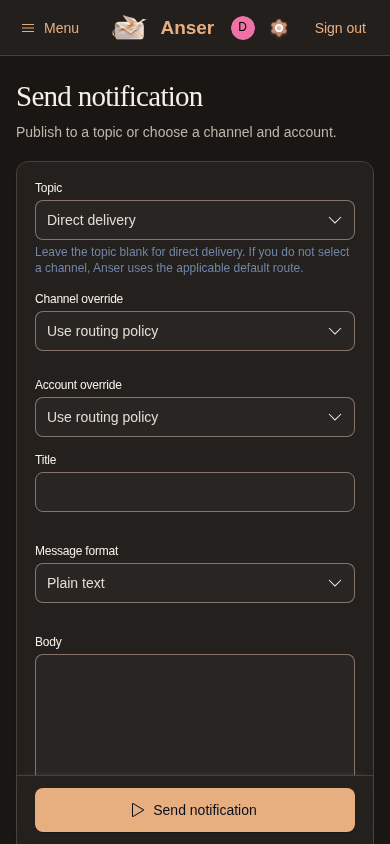
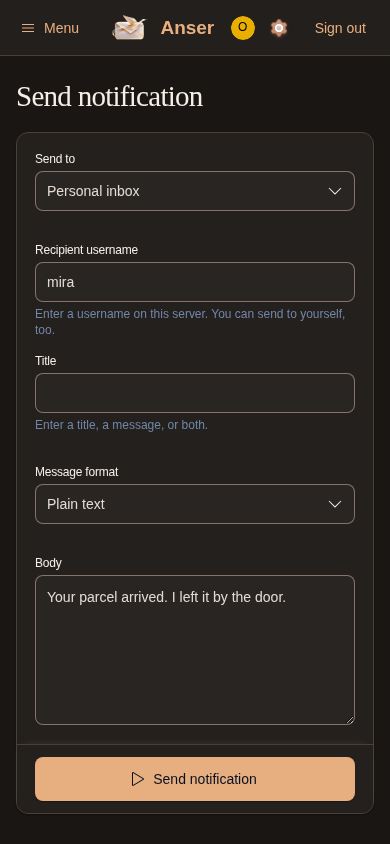
Release Anser 0.5.0 with bilingual delivery walkthroughs

diff --git a/README.en.md b/README.en.md
@@ -38,7 +38,11 @@ Set `ANSER_BOOTSTRAP_USERNAME` and `ANSER_BOOTSTRAP_PASSWORD` before running the
 
 ## Use the client
 
-Enter the server address and your credentials on the connection screen. The console can generate a one-time pairing code with a two-minute lifetime. Scan it with your phone's camera and confirm sign-in in Anser. Each subscriber to a topic receives their own notification. Signed-in users can also send a notification directly to another username.
+Enter your server address and sign in on the client’s connection screen. You can also generate a single-use code under **Pair a client** in the console. Scan it with your phone’s camera and confirm the server address in Anser within two minutes. On the same device, copy the pairing link and choose **Import connection link** in the client.
+
+**Send your first notification.** Open **Send notification** in the console, choose **Personal inbox**, and enter your own username and a short message. Open your inbox in the client to see it. When you send to another user, they can reply from the notification. Your delivery history shows the destination username for direct sends and the number of inboxes reached for topic sends. Read status stays in the recipient’s inbox.
+
+While signed in, you can switch screens in the client or console and return to your draft. Reloading the app or signing out clears it.
 
 Users can turn on two-factor authentication in their account security settings. After linking an authenticator, password sign-in also requires a one-time authenticator code or a recovery code. Save the recovery codes when you finish setup. They appear once.
 
@@ -54,6 +58,8 @@ The delivery overview shows the queue, successful deliveries, dead letters, and 
 
 <details>
 <summary>Delivery details, server plugins, proxies, and account security</summary>
+
+![Direct notification inbox receipt](docs/screenshots/en/server-inbox-receipt.png)
 
 ![Delivery and attempt details](docs/screenshots/en/server-delivery.png)
 
@@ -85,6 +91,8 @@ The delivery overview shows the queue, successful deliveries, dead letters, and 
 <details>
 <summary>Native Linux client</summary>
 
+![Delivery receipt after a reply in the native client](docs/screenshots/en/nsh-receipt.png)
+
 ![Sending a notification in the native client](docs/screenshots/en/nsh-compose.png)
 
 ![Channel plugin settings in the native client](docs/screenshots/en/nsh-plugin.png)
@@ -106,6 +114,7 @@ List both the proxy host and the notification destination host in `ANSER_OUTBOUN
 - The server exposes OpenAPI at `/v1/openapi.json` and a health check at `/healthz`.
 - Administrators can open a plugin's settings in the console or NSH client to enable it, disable it, reload it, or configure its accounts. Disabled plugins stay disabled after restart, and new deliveries skip their accounts.
 - `POST /v1/send` and `POST /v1/topics/{name}/publish` durably queue messages and accept `Idempotency-Key` and `?wait=true`. Send API keys in `Authorization: Bearer ...`.
+- `POST /v1/inbox/send` sends directly to a username and accepts an `Idempotency-Key`. The receipt contains the recipient’s inbox item `id` and a sender-visible `message_id` for delivery history. Direct messages sent before the upgrade remain in their recipients’ inboxes.
 - `GET /v1/messages/{id}` shows deliveries and their attempts. The console supports broadcast, priority failover, weighted selection, weighted failover, rate limits, and retry backoff.
 - The Rust SDK covers typed message submission, topic subscriptions, status queries, sign-in, and the inbox. Use `anser api --help` to find commands such as `anser api channels ntfy --action disable`. [Rust SDK](crates/anser-sdk)
 - Available channels include ntfy, ServerChan, Bark, SMTP email, LazyCat, WeChat Official Account, WeCom, Lark, and Telegram. PushPlus and gorush served as design references. [Channel setup](anser-plugins) · [LazyCat setup](docs/lazycat.md)

diff --git a/README.md b/README.md
@@ -38,7 +38,11 @@ ANSER_REQUIRE_WEB=1 cargo build --locked --release -p anser-server
 
 ## 使用客户端
 
-连接页输入服务端地址和用户账号。在服务端管理台可生成两分钟内有效的一次性二维码，使用手机系统扫码打开雁字并确认登录。已经订阅同一主题的用户各自收到一条通知。已登录用户也可按用户名直接发送通知。
+在客户端连接页输入服务端地址并登录。也可以在管理台的「配对客户端」生成两分钟内有效的一次性二维码，用手机系统相机扫描，在雁字确认服务器地址后登录。同一台设备上可复制配对链接，在客户端选择「导入连接链接」。
+
+**发送第一条通知。** 在管理台「发送通知」选择「个人收件箱」，填写自己的用户名和一句正文，即可在客户端收件箱看到它。发给另一位用户时，对方可以从通知详情直接回复。发送者的投递记录显示通知存入了谁的收件箱。发布到主题时，详情显示实际收到通知的收件箱数量。阅读状态仅在收件人自己的收件箱中显示。
+
+登录期间，在客户端或管理台切换页面会保留发送草稿。刷新页面或退出登录会清除草稿。
 
 用户可在账号安全设置中自行开启双重验证。绑定验证器后，密码登录还需输入动态验证码或一次性恢复码。恢复码只在绑定成功时展示，请保存到安全的位置。
 
@@ -54,6 +58,8 @@ ANSER_REQUIRE_WEB=1 cargo build --locked --release -p anser-server
 
 <details>
 <summary>投递详情、插件、代理与账号安全设置</summary>
+
+![直发通知的收件箱回执](docs/screenshots/zh-CN/server-inbox-receipt.png)
 
 ![投递和发送尝试详情](docs/screenshots/zh-CN/server-delivery.png)
 
@@ -85,6 +91,8 @@ ANSER_REQUIRE_WEB=1 cargo build --locked --release -p anser-server
 <details>
 <summary>Linux 原生客户端</summary>
 
+![原生客户端回复后的送达回执](docs/screenshots/zh-CN/nsh-receipt.png)
+
 ![原生客户端发送通知](docs/screenshots/zh-CN/nsh-compose.png)
 
 ![原生客户端的插件设置](docs/screenshots/zh-CN/nsh-plugin.png)
@@ -106,6 +114,7 @@ ANSER_REQUIRE_WEB=1 cargo build --locked --release -p anser-server
 - API 文档由服务端提供在 `/v1/openapi.json`。健康检查在 `/healthz`。
 - 管理员可在管理台和 NSH 客户端打开各渠道插件的设置页，启用、禁用或重载插件，并用该插件专属的表单配置账号。禁用状态重启后仍然生效，该插件的账号会从新投递的候选集中跳过。
 - `POST /v1/send` 或 `POST /v1/topics/{name}/publish` 持久化入队，支持 `Idempotency-Key` 和 `?wait=true`。API Key 使用 `Authorization: Bearer ...`。
+- `POST /v1/inbox/send` 按用户名直发，支持 `Idempotency-Key`。回执中的 `id` 用于操作收件箱条目，`message_id` 用于查询发送结果。升级前的直发消息仍保留在收件人的收件箱中。
 - `GET /v1/messages/{id}` 查看路由投递和历史尝试。管理台可配置广播、有序故障转移、按权重选择、加权首选再故障转移、限流和退避。
 - [Rust SDK](crates/anser-sdk) 支持类型化发送、主题订阅、查询、登录及收件箱。CLI 用 `anser api --help` 查看管理命令，例如 `anser api channels ntfy --action disable`。
 - 支持 [ntfy](anser-plugins/ntfy)、[Server酱](anser-plugins/serverchan)、[Bark](anser-plugins/bark)、[SMTP 邮件](anser-plugins/email)、[懒猫通知](docs/lazycat.md)、[微信公众号](anser-plugins/wechat-mp)、[企业微信应用](anser-plugins/wecom)、[飞书](anser-plugins/feishu)和 [Telegram](anser-plugins/telegram)。PushPlus 和 gorush 用作设计参考。
